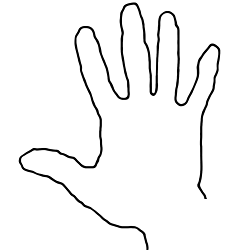
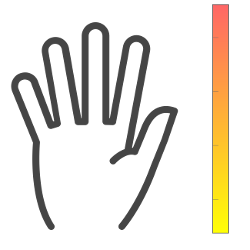
Added new hand image and foreshadow circles

diff --git a/plugins/GUIAratPlugin.cc b/plugins/GUIAratPlugin.cc
@@ -102,6 +102,18 @@ GUIAratPlugin::GUIAratPlugin()
 
   // Draw the hand on the canvas
   handScene->addItem(handItem);
+
+  // Preallocate QGraphicsItems for each contact point
+  for(int i = 0; i < 5; i++){
+    int xpos = finger_points[fingerNames[i]][0];
+    int ypos = finger_points[fingerNames[i]][1];
+    this->contactGraphicsItems[fingerNames[i]] = new QGraphicsEllipseItem(xpos, ypos, circleSize, circleSize);
+    this->handScene->addItem(this->contactGraphicsItems[fingerNames[i]]);
+
+    this->contactGraphicsItems[fingerNames[i]]->setBrush(QBrush(QColor(255, 255, 255, 0)));
+    this->contactGraphicsItems[fingerNames[i]]->setPen(QPen(QColor(153, 153, 153, 255)));
+  }
+
   handScene->update();
   handView->show();
 
@@ -110,6 +122,7 @@ GUIAratPlugin::GUIAratPlugin()
   mainLayout->addWidget(handView);
 
   QVBoxLayout *taskLayout = new QVBoxLayout();
+  taskLayout->setContentsMargins(0, 0, 0, 0);
   
   QTabWidget *tabWidget = new QTabWidget();
   
@@ -141,9 +154,11 @@ GUIAratPlugin::GUIAratPlugin()
       task->GetAttribute("instructions")->Get(instructions);
 
       QTaskButton *taskButton = new QTaskButton();
-      taskButton->setMaximumSize(handImgX/3, handImgY/3);
-      //taskButton->setText(QString(name.c_str()));
-			//Need to add a new signal to PushButton for this to work
+      taskButton->setToolButtonStyle(Qt::ToolButtonTextUnderIcon);
+      taskButton->setMaximumWidth(handImgX/3);
+      taskButton->setMaximumHeight(handImgX/3);
+      taskButton->resize(handImgX/3, handImgY/3);
+      taskButton->setText(QString(name.c_str()));
       taskButton->SetTaskId(id);
       QTextDocument* instructionsDocument = new QTextDocument(QString(instructions.c_str()));
       taskButton->SetTaskInstructionsDocument(instructionsDocument);
@@ -160,6 +175,7 @@ GUIAratPlugin::GUIAratPlugin()
         
         taskButton->setIcon(QIcon(icon_picture));
         taskButton->setIconSize(QSize(iconSize[0], iconSize[1]));
+        taskButton->setMinimumSize(iconSize[0]+20, iconSize[1]+30);
       }
       if(taskList.empty()){
         instructionsView->setDocument(instructionsDocument);
@@ -170,6 +186,8 @@ GUIAratPlugin::GUIAratPlugin()
       task = task->GetNextElement();
       i++;
     }
+    buttonGroup->setMinimumWidth(handImgX);
+    buttonGroup->setContentsMargins(0, 0, 0, 0);
     buttonGroup->setLayout(buttonLayout);
     buttonLayout->setContentsMargins(0, 0, 0, 0);
     buttonLayout->setSpacing(0);
@@ -182,15 +200,18 @@ GUIAratPlugin::GUIAratPlugin()
   currentTaskIndex = 0;
 
   QFrame *taskFrame = new QFrame();
+  tabWidget->setContentsMargins(0, 0, 0, 0);
   taskLayout->addWidget(tabWidget);
   taskLayout->addWidget(instructionsView);
 
   QHBoxLayout* cycleButtonLayout = new QHBoxLayout();
-  QPushButton *resetButton = new QPushButton(QString("Reset Test"));
+  QToolButton *resetButton = new QToolButton();
+  resetButton->setText(QString("Reset Test"));
   connect(resetButton, SIGNAL(clicked()), this, SLOT(OnResetClicked()));
   cycleButtonLayout->addWidget(resetButton);
   resetButton->setMaximumWidth(handImgX/2);
-  QPushButton *nextButton = new QPushButton(QString("Next Test"));
+  QToolButton *nextButton = new QToolButton();
+  nextButton->setText(QString("Next Test"));
   connect(nextButton, SIGNAL(clicked()), this, SLOT(OnNextClicked()));
   cycleButtonLayout->addWidget(nextButton);
   nextButton->setMaximumWidth(handImgX/2);
@@ -217,13 +238,6 @@ GUIAratPlugin::GUIAratPlugin()
   this->taskPub = this->node->Advertise<msgs::GzString>("/gazebo/arat/control");
   this->taskNum = 0;
   this->maxTaskCount = 10;
-
-  // Preallocate QGraphicsItems for each contact point
-  for(int i = 0; i < 5; i++){
-    int xpos = finger_points[fingerNames[i]][0];
-    int ypos = finger_points[fingerNames[i]][1];
-    this->contactGraphicsItems[fingerNames[i]] = new QGraphicsEllipseItem(xpos, ypos, circleSize, circleSize);
-  }
 
 
   // Set up an array of subscribers for each contact sensor
@@ -285,11 +299,14 @@ void GUIAratPlugin::PreRender(){
   for(int i = 0; i < 5; i ++){
     std::string fingerName = this->fingerNames[i];
 
-    if(this->handScene->items().contains(this->contactGraphicsItems[fingerName])){
+    this->contactGraphicsItems[fingerName]->setBrush(QBrush(QColor(255, 255, 255, 1)));
+    this->contactGraphicsItems[fingerName]->setPen(QPen(QColor(153, 153, 153, 255)));
+    /*if(this->handScene->items().contains(this->contactGraphicsItems[fingerName])){
       this->handScene->removeItem(this->contactGraphicsItems[fingerName]);
-    }
+    }*/
   }
-  //TODO: color, position offset, multiple contacts
+
+  //TODO: position offset, multiple contacts
 
   //Clear queued messages and draw them
   while( !this->msgQueue.empty()){
@@ -319,9 +336,9 @@ void GUIAratPlugin::PreRender(){
       this->contactGraphicsItems[fingerName]->setBrush(color);
       this->contactGraphicsItems[fingerName]->setPen(QPen(QColor(0, 0, 0, 0)));
       // Draw on the corresponding spot
-      if(!this->handScene->items().contains(this->contactGraphicsItems[fingerName])){
+      /*if(!this->handScene->items().contains(this->contactGraphicsItems[fingerName])){
         this->handScene->addItem(this->contactGraphicsItems[fingerName]);
-      }
+      }*/
     }
 
   }
